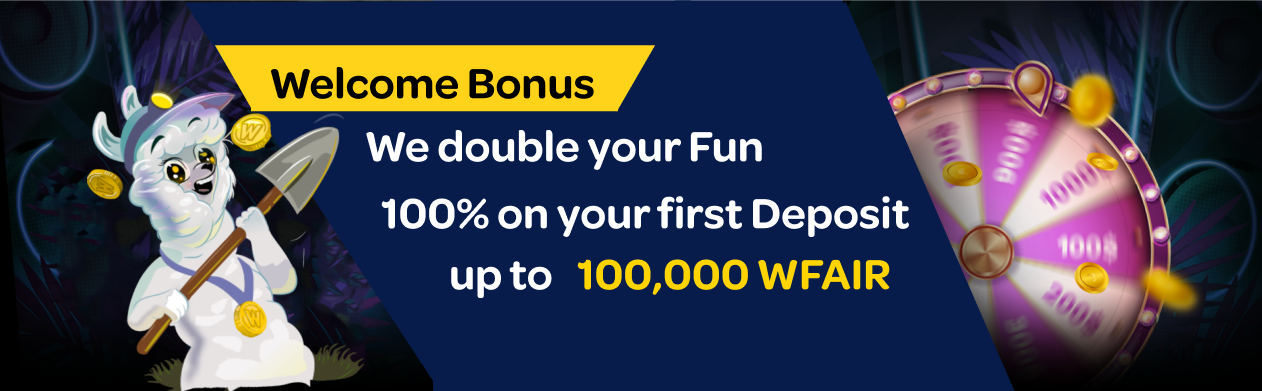
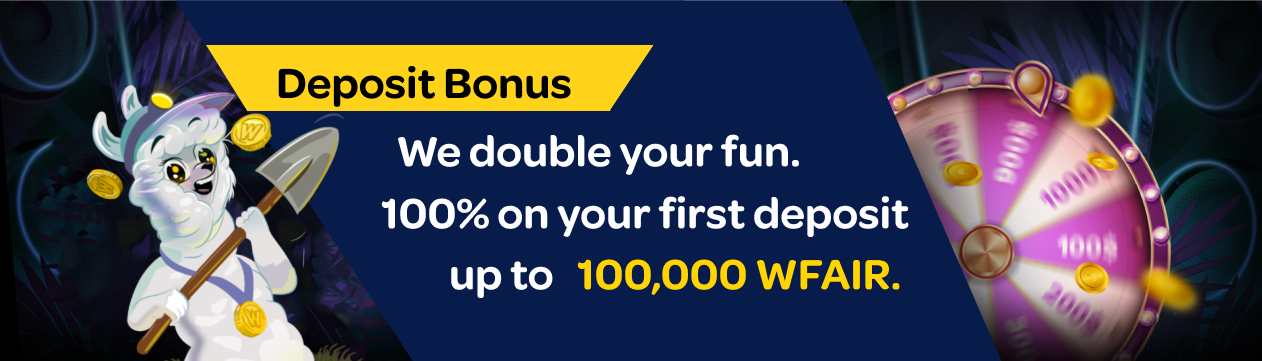
deposit and other layout adjustments

diff --git a/src/screens/UserWallet/index.js b/src/screens/UserWallet/index.js
@@ -26,6 +26,7 @@ import { trackWalletAddWfair, trackWalletWithdraw } from 'config/gtm';
 
 import Bonus100kDesktop from '../../data/images/deposit/bonus100k-desktop.png'
 import Bonus100kMobile from '../../data/images/deposit/bonus100k-mobile.png'
+import ButtonTheme from 'components/Button/ButtonTheme';
 
 const UserWallet = ({
   tags,
@@ -62,6 +63,8 @@ const UserWallet = ({
   const [userKyc, setUserKyc] = useState({...user?.kyc});
 
   const [emailSent, setEmailSent] = useState(false);
+
+  const depositCount = useDepositsCounter();
 
   const activityData = {
     DEPOSITS: transactions.deposit || [],
@@ -134,9 +137,6 @@ const UserWallet = ({
   const isKycVerified = () => userKyc && userKyc.status === 'approved';
 
   const showKycBanner = () => !isKycStarted() || userKyc.status === 'error' || userKyc.status === 'rejected';
-
-  console.log('showKyc', showKycBanner);
-  console.log('send confirmed', user.emailConfirmed);
 
   const openFractal = () => {
     const kycUrl = ApiUrls.BACKEND_URL + ApiUrls.KYC_START_FOR_USER.replace(':userId', user.userId);
@@ -240,57 +240,13 @@ const UserWallet = ({
                   Alpacasino uses WFAIR currency to play games and win. You can convert your won WFAIR token back into crypto currency  or in EUR / USD at any time around the world.
                 </p>
               </div>
-              {/* <div className={styles.buttonContainer}>
-                <p className={styles.label}>Need WFAIR to play? No problem.</p>
-                <Button
-                  className={styles.button}
-                  onClick={showWalletDepositPopup}
-                >
-                  Add WFAIR!
-                </Button>
-                <p className={styles.label}>Want to withdraw WFAIR? No problem.</p>
-                <Button
-                  className={styles.button}
-                  disabled={!isKycVerified() || !user.emailConfirmed}
-                  disabledWithOverlay={false}
-                  onClick={showWithdrawPopup}
-                >
-                  Withdraw
-                </Button>
-                {!user.emailConfirmed ? 
-                  <>
-                    <p className={styles.label}>You must confirm your email to be able to withdraw your tokens.</p>
 
-                    <Button
-                      className={styles.button}
-                      disabled={emailSent}
-                      disabledWithOverlay={false}
-                      onClick={handleResendEmailConfirmation}
-                    >
-                      {!emailSent ? 'Resend Email' : 'Email sent'}
-                    </Button>
-                  </>
-                  : null 
-                }
-              </div>
-              {
-                showStartButton() && (
-                  <div className={styles.buttonContainer}>
-                  <p className={styles.label}>
-                    Enable the full functionality of your account in 30 seconds! Complete our verification process now, and you will be able to withdraw your funds and add an unlimited amount of WFAIR.
-                  </p>
-                  <Button
-                    className={styles.button}
-                    onClick={openFractal}
-                  >
-                    Complete Verification!
-                  </Button>
-                </div>
-                )
-              }
+              {/* 
               <div className={styles.buttonContainer}>
                 <p className={styles.label}>In case of any questions please <span onClick={() => {window.fcWidget.open()}}>click here</span> to contact our Support.</p>
-              </div> */}
+              </div> 
+              */}
+
               {/* <div className={styles.buttonContainer}>
                 <p className={styles.label}>Start the verification</p>
                 <Button
@@ -299,25 +255,26 @@ const UserWallet = ({
                 >
                   Request test tokens
                 </Button>
-              </div> */}
+              </div> 
+              */}
             </div>
           </Grid>
         </Grid>
-
-        <Grid
-          className={styles.balanceCard}
-          item
-          justifyContent="flex-start"
-          lg={12}
-          md={12}
-        >
-          <div className={styles.currentBalanceDescription}>
-            {/* <div className={styles.currentBalanceCard}> */}
-              <img src={Bonus100kDesktop} className={styles.bonusDesktop} alt="bonus desktop" />
-              <img src={Bonus100kMobile} className={styles.bonusMobile} alt="bonus mobile" />
-            {/* </div> */}
-          </div>
-        </Grid>
+        
+        { depositCount != null && depositCount === 0 &&
+          <Grid
+            className={styles.balanceCard}
+            item
+            justifyContent="flex-start"
+            lg={12}
+            md={12}
+          >
+            <div className={styles.currentBalanceDescription}>
+                <img src={Bonus100kDesktop} className={styles.bonusDesktop} alt="bonus desktop" />
+                <img src={Bonus100kMobile} className={styles.bonusMobile} alt="bonus mobile" />
+            </div>
+          </Grid>
+        }
         
         {!user.emailConfirmed &&
           <Grid
@@ -340,6 +297,8 @@ const UserWallet = ({
                   <Button
                     className={styles.buttonBanner}
                     onClick={handleResendEmailConfirmation}
+                    disabled={emailSent}
+                    theme={ButtonTheme.alternativeButton}
                   >
                     {!emailSent ? 'Resend Email' : 'Email sent'}
                   </Button>
@@ -370,6 +329,7 @@ const UserWallet = ({
                   <Button
                     className={styles.buttonBanner}
                     onClick={openFractal}
+                    theme={ButtonTheme.alternativeButton}
                   >
                     Start
                   </Button>
@@ -458,14 +418,19 @@ Your WFAIR is automatically credited in your account.
                 <div className={styles.buttonContainer}>
                   <h2>Withdraw</h2>
                   <p className={styles.label}>
+                    You can withdraw your funds in the casino directly to your wallet. You can then convert your WFAIR to other cryptocurrencies or hold it to have early access to the <a title="Check WFAIR roadmap" href="https://wallfair.io/#roadmap" target="_blank" rel="noreferrer">upcoming utilities</a>.
+                  </p>
+                  {/* <p className={styles.label}>
                     You can withdraw your funds in the casino directly to your wallet. You can then convert your WFAIR to other cryptocurrencies or stake it to increase your gains.
                     Learn more
-                  </p>
+                  </p> */}
                   <Button
                     className={styles.button}
                     disabled={!isKycVerified() || !user.emailConfirmed}
                     disabledWithOverlay={false}
                     onClick={showWithdrawPopup}
+                    title="Withdraw is only possible after the KYC verification is approved and the e-mail address is confirmed."
+                    theme={ButtonTheme.alternativeButton}
                   >
                     Withdraw
                   </Button>

diff --git a/src/screens/UserWallet/styles.module.scss b/src/screens/UserWallet/styles.module.scss
@@ -112,6 +112,7 @@
 .activityWrapper {
   // margin-top: 32px;
   background: $colorPrimary;
+  border: 1px solid $colorBlueBorder;
 
   .headerTables {
     @media screen and (max-width: $screen-xs) {
@@ -272,6 +273,7 @@
 
   .currentBalanceCard {
     background: rgba($colorBlue80, 0.6);
+    border: 1px solid $colorBlueBorder;
     border-radius: 12px;
     position: relative;
     z-index: 1;
@@ -299,7 +301,7 @@
     }
 
     p.welcome {
-      max-width: 460px;
+      // max-width: 460px;
       padding-top: 10px;
       color: $colorWhite;
       font-weight: 600;
@@ -362,6 +364,9 @@
     display: block;
     width: 100%;
 
+    border: 1px solid $colorBlueBorder;
+    border-radius: 12px;
+
     object-fit: cover;
     margin: 0 auto;
     margin-right: 10px;
@@ -376,6 +381,9 @@
     display: none;
     width: 100%;
     object-fit: cover;
+
+    border: 1px solid $colorBlueBorder;
+    border-radius: 12px;
 
     @media (max-width: $screen-xs) {
       display: block;
@@ -461,6 +469,10 @@
           color: $mainAction;
           text-decoration: underline;
           cursor: pointer;
+        }
+
+        a {
+          text-decoration: underline;
         }
       }
 

diff --git a/src/components/WalletDepositPopup/DepositFiat/index.js b/src/components/WalletDepositPopup/DepositFiat/index.js
@@ -218,12 +218,10 @@ const DepositFiat = ({user, showWalletDepositPopup, fetchWalletTransactions}) =>
       </div>
 
       <div className={styles.summary}>
-        <span>Explanation explanation Explanation explanation Explanation explanation Explanation explanation Explanation explanation Explanation explanation </span>
-        <span>{cryptoTransaction} Address: {address}</span>
+        <span>For your safety and convenience, we process money payments via an external provider. Please click the button below to continue. <b>Important</b>: DO NOT change the BTC wallet address provided.</span>
+        {/* <span>Your {cryptoTransaction} Deposit Address: {address}</span> */}
       </div>
 
-      
-      {/* <Button>Buy {currency > 0 && `${numberWithCommas(currency)} ${selectedCurrency.label}`}</Button> */}
       {currency > 0 && user.email && address ?
         <a target="_blank" rel="noreferrer" href={`${productionRampURL}?swapAsset=${cryptoTransaction}&fiatValue=${currency}&fiatCurrency=${selectedCurrency.label}&userEmailAddress=${user.email}&userAddress=${address}`}>
           <Button>Proceed with partner</Button>

diff --git a/src/components/Button/styles.module.scss b/src/components/Button/styles.module.scss
@@ -5,6 +5,37 @@
   position: relative;
   align-items: center;
   justify-content: center;
+  // background: $colorButton;
+  background: $mainAction;
+  color: $colorBlack;
+  box-sizing: border-box;
+  border-radius: 60px;
+  font-size: 20px;
+  font-weight: bold;
+  font-family: $fontOmnes;
+  padding: 8px 30px;
+  text-transform: none;
+  user-select: none;
+  text-align: center;
+  @media (max-width: $screen-sm) {
+    font-size: 18px;
+  }
+
+  &:hover {
+    cursor: pointer;
+  }
+
+  &.disabled {
+    opacity: 0.7;
+    cursor: not-allowed;
+  }
+}
+
+.alternativeButton {
+  display: flex;
+  position: relative;
+  align-items: center;
+  justify-content: center;
   background: $colorButton;
   color: $colorBlack;
   box-sizing: border-box;

diff --git a/src/components/Button/index.js b/src/components/Button/index.js
@@ -103,7 +103,23 @@ const Button = ({
           data-tracking-id={dataTrackingId}
         > 
           {children}
-        </span> : theme === ButtonTheme.secondaryButton ?
+        </span> 
+
+        : theme === ButtonTheme.alternativeButton ?
+        <span
+          className={classNames(
+            className,
+            style.alternativeButton,
+            disabled ? style.disabled : null,
+          )}
+          disabled={disabled}
+          onClick={disabled ? null : onClick}
+          data-tracking-id={dataTrackingId}
+        > 
+          {children}
+        </span> 
+
+        : theme === ButtonTheme.secondaryButton ?
         <span
           className={classNames(
             className,

diff --git a/src/screens/Home/index.js b/src/screens/Home/index.js
@@ -574,9 +574,9 @@ const Home = ({
           {renderAboutDescription()}
           {/* {renderFreeAlpacaOffer()} */}
           {/* <AmbassadorBanner /> */}
-          <div className={styles.nftBannerWrapper}>
+          {/* <div className={styles.nftBannerWrapper}>
             <NftBanner />
-          </div>
+          </div> */}
           {renderActivities()}
           {/* {renderAlpacaDopter()}
           {renderAlpacaVerse()} */}

diff --git a/src/components/Button/ButtonTheme.js b/src/components/Button/ButtonTheme.js
@@ -2,4 +2,5 @@ export default {
   primaryButton: 'primaryButton',
   secondaryButton: 'secondaryButton',
   loginButton: 'loginButton',
+  alternativeButton: 'alternativeButton',
 };

diff --git a/src/components/WalletDepositPopup/DepositFiat/styles.module.scss b/src/components/WalletDepositPopup/DepositFiat/styles.module.scss
@@ -212,6 +212,7 @@
     span {
       font-weight: 500;
       font-size: 12px;
+      text-align: justify;
     }
 
     .summaryTotal {
